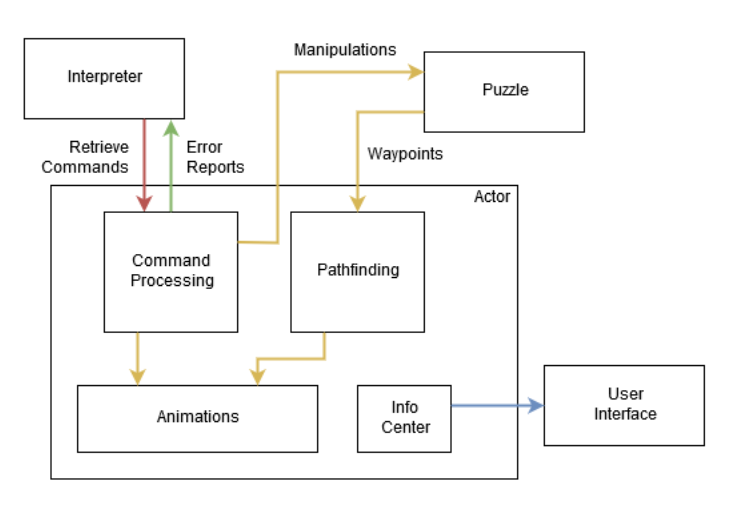
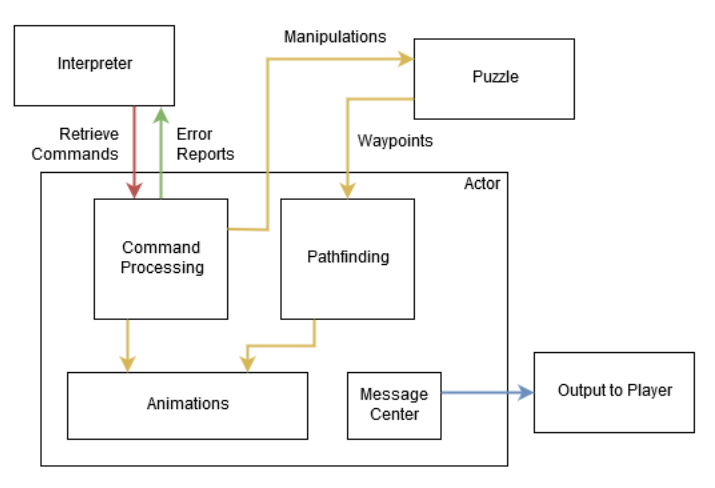
Finalize Actor section

Changed region(s): [[0.0, 0.0307, 0.9846, 0.9529], [0.0615, 0.9529, 0.7077, 0.9836]]

diff --git a/sections/system_design/actor.tex b/sections/system_design/actor.tex
@@ -21,7 +21,7 @@ The responsibilities of the Actor are as follows:
 			as specified by the current command)
 	\item Communicate the flow of execution to the player through animations
 	\item Illustrate to the player how data changes in response to commands via animations
-	\item Act as a liason to the player for hints and other important messages.
+	\item Tell the player about runtime errors in their code
 \end{itemize}
 
 \subsubsection{Interpreter Interactions}
@@ -33,6 +33,8 @@ Effective integration with the Interpreter is a key component of the functionali
   \centering
   \includegraphics[scale=0.8]{Diagrams/interpreter_interactions.png}
 \end{figure}
+
+As mentioned in Section 6.5.4, there is a three step handshake between the Actor and the Interpreter when processing instructions. To summarize, the Actor requests the next command, the Interpreter responds with a data structure of that command, and the Actor then reports the results of the execution of that command to the Interpreter. Again, this communication flow can be seen in Figure \ref{fig:interpreter_Actor_interface}. 
 
 \subsubsection{Processing Commands}
 The processing of commands is the core function of the Actor. Interfacing with the Interpreter component is only the first part of command processing; the majority of that processing occurs independently within the Actor component once a command has been retrieved. Figure \ref{fig:processing_commands} shows in detail how the Actor internally processes commands.\\
@@ -46,7 +48,33 @@ The processing of commands is the core function of the Actor. Interfacing with t
 
 After fetching a command, the Actor will then execute a series of movements and actions to carry out that command. This includes moving to the proper waypoint to initiate the instruction, manipulating data from the Puzzle Scene object the Actor is currently at, moving to a second waypoint to continue execution, and manipulating data at that second Puzzle Scene object. Depending on what the current command is and the status of the actor when the new command is retrieved, some of these four steps may not be applicable. Parsing each instruction separately and successfully regardless of the current state is vital. Commands that cause errors must be reported accurately back to the Interpreter so that execution can be halted when they are encountered, and no false reporting can be tolerated. If the command won't cause an error until it is partially completed, the partial execution of that command must be shown. Additionally, commands that can complete without causing errors should always be carried out exactly as specified. This is integral to the process of the game because even if the command is the wrong selection at the time, it still needs to be executed properly in the puzzle to show the player the error in their logic. Of course, correct commands that work towards the solution also need to be executed properly to eventually reach the solved state of the puzzle.\\
 
-\subsubsection{Player Messaging}
-The Actor is also the main form of direct communication with the player. Through the visual execution of the instructions that the player has selected, the Actor conveys how the solution the player built functions. This includes not just moving around the board and manipulating the data elements, but also providing visual cues to the user via detailed animations. For example, the data elements will be visibily picked up and held by the Actor. If that data is copied to another location, the Actor will be seen producing a copy of that data and placing it at the location specified. Data that is incremented or decremented via commands will be changed according to those commands so that the player sees and understands how the data elements are being manipulated. Additionally, providing expressive and emotive animations enhances the clarity of communication without bogging down the player with too much text. If the current command is to select the next element from Input but the Input box is empty, the Actor would attempt to pick up the item, find that nothing is there, and then emphasize that their hands are empty.\\
+The command passed from the Interpreter to the Actor needs to have several fields:
+\begin{itemize}
+	\item Command Opcode
+	\item Command Argument
+	\item Success Indicator
+	\item Evaluation Indicator
+\end{itemize}
+The associated opcode for the command is a an integer value unique to that command. Each command in the language has a corresponding opcode. By reading these values, the Actor will know which instruction type it needs to process. The argument for that command will provide additional information to the Actor, such as which Memory Card the Actor will be interacting with when it is processing a command at the Registers Waypoint. The success indicator is a validation variable that will indicate whether or not the command was executed successfully. These first three fields are part of every command within the language of our game; the final field, however, is only required for those commands that require something to be evaluated. Specifically, the conditional jump commands. These commands dictate the control of execution based on their results, and so the result of the evaluation -- true or false -- needs to be reported back to the Interpreter so that it knows which instruction in the solution should receive the control of execution next. For this reason, these commands have been packaged in a struct (as seen in Figure \ref{fig:command_struct} that will be passed by reference to the Actor for modification as it executes the command so that the Interpreter can see updates in real time and respond accordingly to halts in execution or changes in control of execution.\\
 
-Aside from effective visual communication, the Actor will also provide information to the player via text when necessary. This form of communication will be used sparingly and will always be coupled with visual cues to help cut down on the amount of explicit text required to convey the information to the player. Because the Actor is essentially the only character in the game as well as the focus of the game action, any dynamic messaging that needs to occur will come from the Actor. Static messaging that does not change based on current activity will be left to the User Interface. Expanding on this idea of the Actor being a point of contact, if the player finds they are stuck on a certain puzzle they can click on the Actor in the field and request a hint on the solution for the current puzzle. \\
+
+\begin{figure}[!htb]
+  \caption{The form of the struct used for packaging the fields of the Command}
+  \label{fig:command_struct}
+  \centering
+  \includegraphics{command_struct.png}
+\end{figure}
+
+\subsubsection{Player Messaging}
+The Actor is also a key component of communication with the player. Through the visual execution of the instructions that the player has selected, the Actor conveys how the solution the player built functions. This includes not just moving around the board and manipulating the data elements, but also providing visual cues to the user via detailed animations. For example, the data elements will be visibily picked up and held by the Actor. If that data is copied to another location, the Actor will be seen producing a copy of that data and placing it at the location specified. Data that is incremented or decremented via commands will be changed according to those commands so that the player sees and understands how the data elements are being manipulated. Additionally, providing expressive and emotive animations enhances the clarity of communication without bogging down the player with too much text. If the current command is to select the next element from Input but the Input box is empty, the Actor would attempt to pick up the item, find that nothing is there, and then emphasize that their hands are empty.\\
+
+Aside from effective visual communication, the Actor will also provide information to the player via text when applicable. For the most part, this will be explicitly in response to runtime errors that are encountered during execution. Because a certain runtime error is always the same no matter what instance of the attempted puzzle solution causes it to occur, the Actor can provide messaging prompts to the player about these errors independently of the puzzle itself. As previously seen in Figure \ref{fig:processing_commands}, the Actor processes the success of commands completely independently and reports those errors back to the Interpreter so that the Interpreter can halt execution. It is because of this independent evalution that the Actor does not need to rely on input from any other systems in order to provide successful messaging on these errors.\\
+
+In addition to error messaging, the Actor can also give messaging prompts to the player based on certain conditions. For example, the Actor may give an encouraging message from a random bank when a puzzle is successfully solved. This form of communication will be used sparingly and will always be coupled with visual cues to help cut down on the amount of explicit text required to convey the information to the player. Because the Actor is essentially the only character in the game as well as the focus of the game action, any dynamic messaging that needs to occur will come from the Actor. Based on the success status of the execution of certain commands, the Actor will access appropriate messaging from a bank in the Message Center to display as output, as seen in Figure \ref{fig:actor_messaging}. Static messaging that does not change based on current activity will be left to the User Interface.\\
+
+\begin{figure}[h]
+  \caption{The Message Center of the Actor}
+  \label{fig:actor_messaging}
+  \centering
+  \includegraphics{actor_messaging.png}
+\end{figure}
